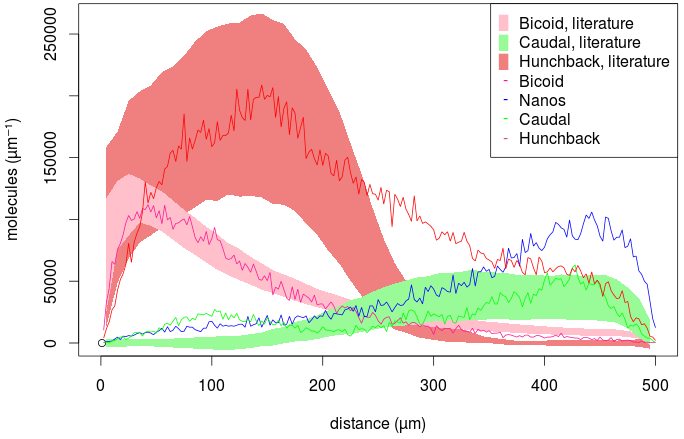
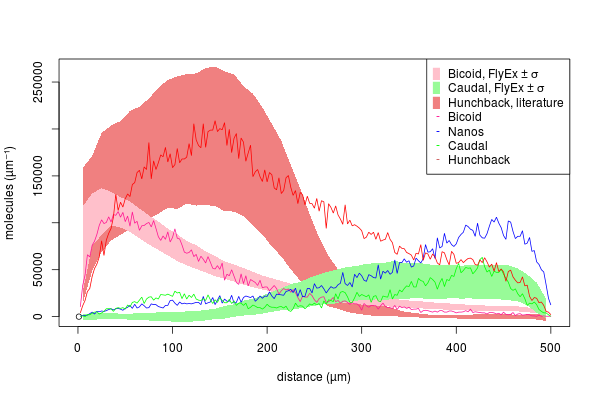
added +-sigma to figure legends, reduced list indentations

Changed region(s): [[0.0, 0.0, 1.0, 0.9], [0.45, 0.93, 0.63, 0.99]]

diff --git a/drosophila-embryogenesis.tex b/drosophila-embryogenesis.tex
@@ -5,6 +5,9 @@
 \usepackage{graphicx}
 \usepackage[hidelinks]{hyperref}
 \usepackage{siunitx}
+\usepackage{enumitem}
+\setdescription{noitemsep,topsep=0pt,parsep=0pt,partopsep=0pt}
+\setlist[description]{leftmargin=0pt}
 \linespread{0.98}
 \sisetup{load-configurations = abbreviations}
 \begin{document}
@@ -42,7 +45,7 @@ The Hunchback model was by far the most complex, but neverthless all rates in it
 
 \begin{figure}[h]
 \includegraphics[width=0.5\textwidth]{writeup-all}
-\caption{Gradients for all morphogens. Literature data to \(1\sigma\). \label{fig:all}}
+\caption{Gradients for all morphogens. \label{fig:all}}
 \end{figure}
 
 \section{Methods}
